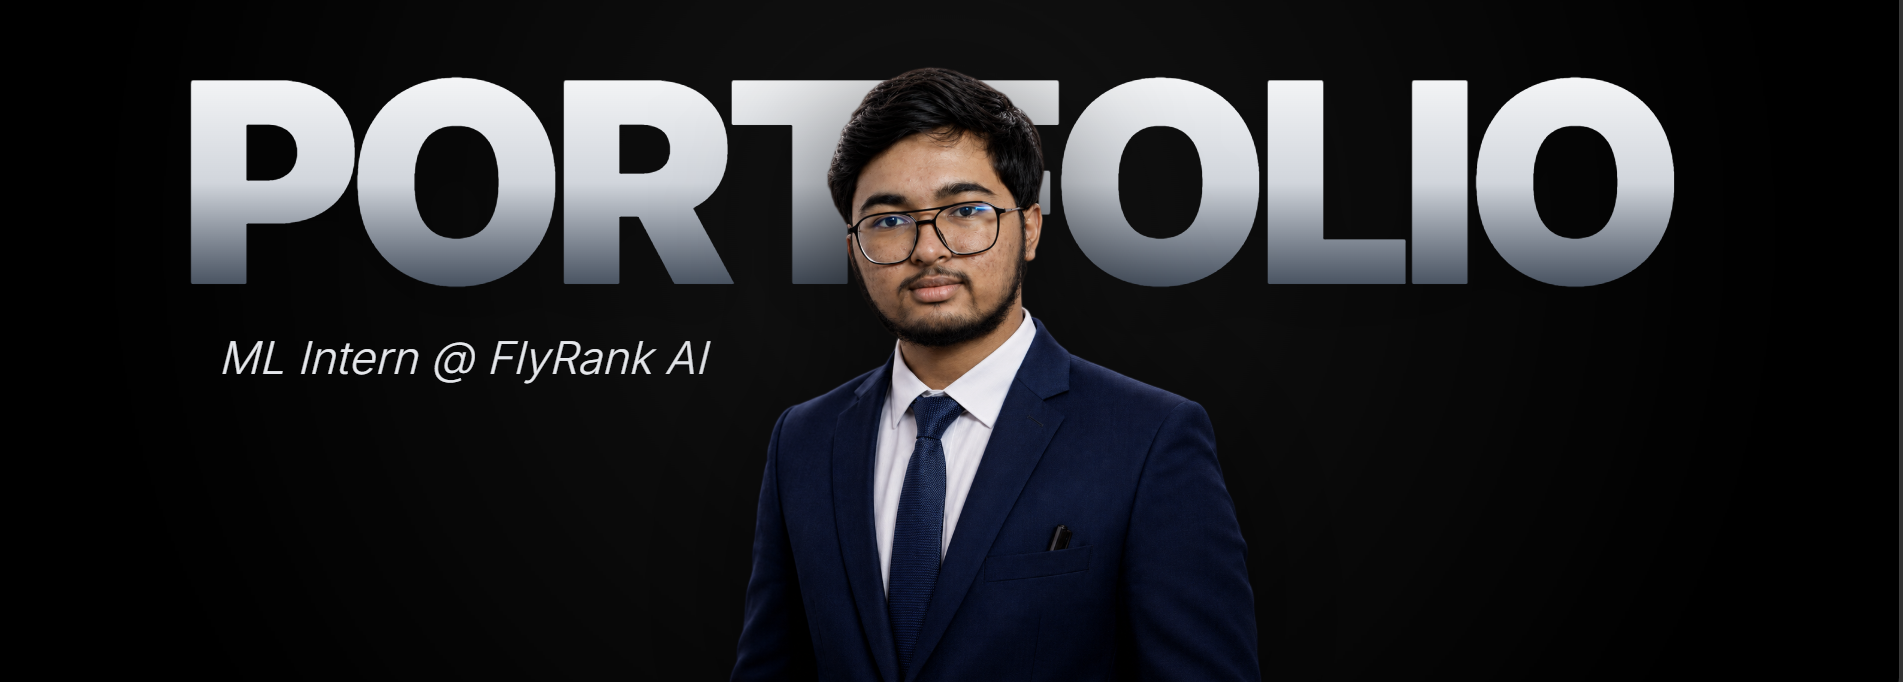
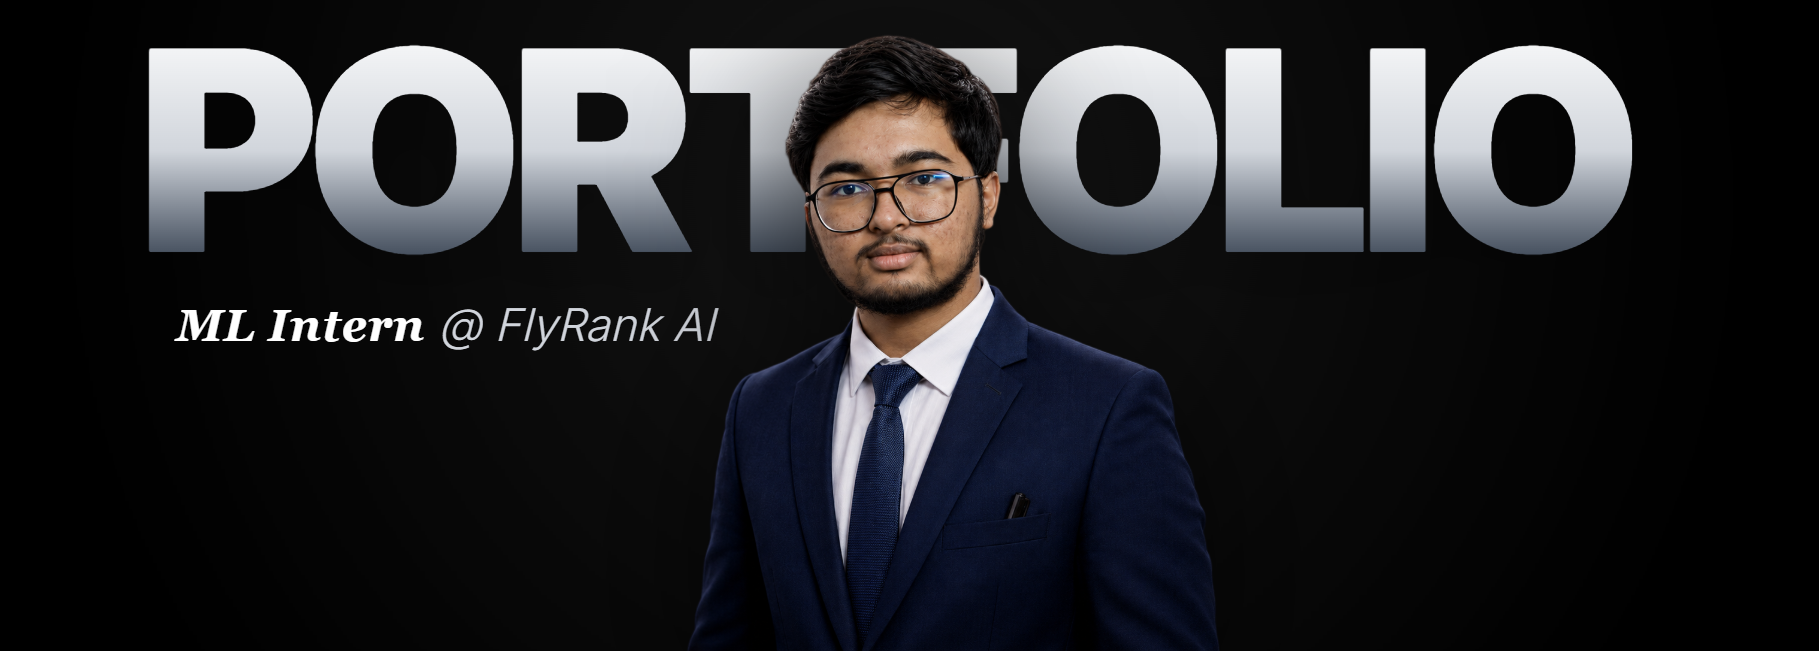
style: enhance portfolio UI with glassmorphic navbar, tech stack badges, category pills, and polished project cards

diff --git a/src/components/Project.jsx b/src/components/Project.jsx
@@ -4,6 +4,7 @@ const projects = [
   {
     id: 'rag-assistant',
     name: 'RAG AI TEACHING ASSISTANT ON YOUR DATA',
+    category: 'MACHINE LEARNING & RAG PIPELINE',
     title: (
       <>
         RAG AI <span className="font-light italic text-gray-300 lowercase font-serif">teaching</span><br />
@@ -11,6 +12,7 @@ const projects = [
       </>
     ),
     description: "A Retrieval-Augmented Generation (RAG) platform to convert custom lecture video archives into an interactive AI teaching assistant. Automatically transcribes video audio to MP3, converts speech to JSON, generates vector embeddings, and feeds contextual prompt payloads to LLMs.",
+    tags: ['Python', 'OpenAI GPT', 'Whisper AI', 'Vector Embeddings', 'Joblib', 'Pandas'],
     image: "/assets/photos/rag_project.png",
     github: "https://github.com/gaurav443201/RAG-BASED-PROJECT",
     modalType: 'rag'
@@ -18,6 +20,7 @@ const projects = [
   {
     id: 'bunk-manager-pro',
     name: 'BUNK MANAGER PRO',
+    category: 'FULL-STACK EDUCATIONAL PLATFORM',
     title: (
       <>
         BUNK MANAGER <span className="font-light italic text-gray-300 lowercase font-serif">pro</span><br />
@@ -25,6 +28,7 @@ const projects = [
       </>
     ),
     description: "A modern educational web application designed to help students track attendance, compute bunk allowances above 75%, and calculate recovery classes. Features single-click attendance logging, Chart.js visual analytics, dark mode, and a Flask/MongoDB backend.",
+    tags: ['Python', 'Flask', 'PyMongo', 'MongoDB', 'Tailwind CSS', 'Alpine.js', 'Chart.js'],
     image: "/assets/photos/bunk_manager.png",
     github: "https://github.com/gaurav443201/bunk-manager-pro",
     modalType: 'bunk'
@@ -129,38 +133,55 @@ const Project = ({ onCtaClick }) => {
       </div>
 
       {/* Projects List - Alternating Layout */}
-      <div className="flex flex-col gap-24 lg:gap-40 w-full">
+      <div className="flex flex-col gap-24 lg:gap-36 w-full">
         {projects.map((proj, idx) => {
           const isEven = idx % 2 === 0;
           return (
             <div key={proj.id || proj.name} className={`flex flex-col ${isEven ? 'lg:flex-row' : 'lg:flex-row-reverse'} items-center justify-between gap-12 lg:gap-16 w-full group`}>
 
               {/* Image Side */}
-              <div className="w-full lg:w-6/12 overflow-hidden relative aspect-[16/10] bg-[#111] rounded-sm">
+              <div className="w-full lg:w-6/12 overflow-hidden relative aspect-[16/10] bg-[#111] rounded-2xl border border-white/10 shadow-2xl group-hover:border-[#ccff00]/40 transition-all duration-500">
                 <img
                   src={proj.image}
                   alt={proj.name}
-                  className="w-full h-full object-cover transition-transform duration-700 group-hover:scale-105 opacity-90 group-hover:opacity-100 grayscale hover:grayscale-0"
+                  className="w-full h-full object-cover transition-transform duration-700 group-hover:scale-105 opacity-90 group-hover:opacity-100 grayscale group-hover:grayscale-0"
                 />
+                <div className="absolute inset-0 bg-gradient-to-t from-black/60 via-transparent to-transparent opacity-80 pointer-events-none" />
               </div>
 
               {/* Text Side */}
               <div className="w-full lg:w-5/12 flex flex-col items-start">
-                <span className="text-[#ccff00] text-xs md:text-sm font-bold tracking-widest uppercase mb-4">
-                  0{idx + 1}
-                </span>
-                <h3 className="text-3xl md:text-4xl lg:text-5xl font-black tracking-tighter text-white leading-[1.1] uppercase mb-6">
+                <div className="flex items-center gap-3 mb-4">
+                  <span className="text-[#ccff00] text-xs md:text-sm font-bold tracking-widest uppercase">
+                    0{idx + 1}
+                  </span>
+                  <span className="text-[10px] md:text-xs font-mono font-semibold px-2.5 py-0.5 rounded-full bg-white/10 text-gray-300 border border-white/10 uppercase tracking-wider">
+                    {proj.category}
+                  </span>
+                </div>
+
+                <h3 className="text-3xl md:text-4xl lg:text-5xl font-black tracking-tighter text-white leading-[1.1] uppercase mb-5 group-hover:text-[#ccff00] transition-colors">
                   {proj.title}
                 </h3>
-                <p className="text-gray-400 text-sm md:text-base font-light leading-relaxed mb-10">
+
+                <p className="text-gray-400 text-sm md:text-base font-light leading-relaxed mb-6">
                   {proj.description}
                 </p>
+
+                {/* Tech Tags */}
+                <div className="flex flex-wrap gap-2 mb-8">
+                  {proj.tags.map(t => (
+                    <span key={t} className="px-2.5 py-1 rounded-md bg-white/5 text-[11px] font-mono text-gray-300 border border-white/10">
+                      {t}
+                    </span>
+                  ))}
+                </div>
 
                 <div className="flex items-center gap-4 flex-wrap">
                   {proj.modalType ? (
                     <button 
                       onClick={() => setActiveModal(proj.modalType)} 
-                      className="cursor-pointer px-6 py-2.5 rounded-full border border-[#ccff00] bg-[#ccff00] text-black text-xs md:text-sm font-bold hover:bg-[#b3e600] hover:border-[#b3e600] transition-colors inline-flex items-center gap-2 shadow-lg shadow-[#ccff00]/10"
+                      className="cursor-pointer px-6 py-2.5 rounded-full border border-[#ccff00] bg-[#ccff00] text-black text-xs md:text-sm font-bold hover:bg-[#b3e600] hover:scale-105 transition-all inline-flex items-center gap-2 shadow-lg shadow-[#ccff00]/10"
                     >
                       {proj.modalType === 'rag' ? 'Pipeline Guide' : 'Setup & Features'}
                       <svg xmlns="http://www.w3.org/2000/svg" className="w-4 h-4" fill="none" viewBox="0 0 24 24" stroke="currentColor" strokeWidth={2}>
@@ -168,7 +189,7 @@ const Project = ({ onCtaClick }) => {
                       </svg>
                     </button>
                   ) : (
-                    <button onClick={onCtaClick} className="cursor-pointer px-6 py-2.5 rounded-full border border-[#ccff00] bg-[#ccff00] text-black text-xs md:text-sm font-medium hover:bg-[#b3e600] hover:border-[#b3e600] transition-colors inline-flex items-center gap-2">
+                    <button onClick={onCtaClick} className="cursor-pointer px-6 py-2.5 rounded-full border border-[#ccff00] bg-[#ccff00] text-black text-xs md:text-sm font-medium hover:bg-[#b3e600] hover:scale-105 transition-all inline-flex items-center gap-2">
                       Live Demo
                       <svg xmlns="http://www.w3.org/2000/svg" className="w-3 h-3" fill="none" viewBox="0 0 24 24" stroke="currentColor" strokeWidth={2}>
                         <path strokeLinecap="round" strokeLinejoin="round" d="M4.5 19.5l15-15m0 0H8.25m11.25 0v11.25" />
@@ -180,7 +201,7 @@ const Project = ({ onCtaClick }) => {
                     href={proj.github} 
                     target="_blank" 
                     rel="noopener noreferrer" 
-                    className="cursor-pointer px-6 py-2.5 rounded-full border border-white/30 text-white text-xs md:text-sm hover:bg-white hover:text-black transition-colors inline-flex items-center gap-2"
+                    className="cursor-pointer px-6 py-2.5 rounded-full border border-white/30 text-white text-xs md:text-sm hover:bg-white hover:text-black hover:scale-105 transition-all inline-flex items-center gap-2"
                   >
                     GitHub
                     <svg xmlns="http://www.w3.org/2000/svg" width="14" height="14" viewBox="0 0 24 24" fill="none" stroke="currentColor" strokeWidth="2" strokeLinecap="round" strokeLinejoin="round">

diff --git a/src/components/Navbar.jsx b/src/components/Navbar.jsx
@@ -2,6 +2,7 @@ import React, { useState, useEffect } from 'react';
 
 const Navbar = () => {
   const [show, setShow] = useState(false);
+  const [scrolled, setScrolled] = useState(false);
   const [lastScrollY, setLastScrollY] = useState(0);
   const [isMenuOpen, setIsMenuOpen] = useState(false);
 
@@ -14,6 +15,7 @@ const Navbar = () => {
   useEffect(() => {
     const controlNavbar = () => {
       if (typeof window !== 'undefined') {
+        setScrolled(window.scrollY > 30);
         if (window.scrollY > lastScrollY && window.scrollY > 50) {
           setShow(false);
         } else {
@@ -47,7 +49,7 @@ const Navbar = () => {
 
   return (
     <>
-      <nav className={`fixed top-0 left-0 w-full z-50 flex items-center justify-between px-6 py-5 md:px-12 md:py-6 transition-all duration-700 ease-in-out ${show ? 'translate-y-0 opacity-100' : '-translate-y-full opacity-0'} ${isMenuOpen ? 'bg-black/90 backdrop-blur-md' : 'bg-transparent'}`}>
+      <nav className={`fixed top-0 left-0 w-full z-50 flex items-center justify-between px-6 md:px-12 transition-all duration-500 ease-in-out ${show ? 'translate-y-0 opacity-100' : '-translate-y-full opacity-0'} ${isMenuOpen ? 'bg-black/95 backdrop-blur-xl' : scrolled ? 'bg-black/80 backdrop-blur-md border-b border-white/10 shadow-2xl py-4' : 'bg-transparent py-6'}`}>
         {/* Logo */}
         <div className="text-white font-black text-xl md:text-2xl tracking-widest uppercase cursor-pointer relative z-50">
           Gaurav<span className="text-[#ccff00]">.</span>
